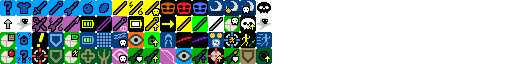
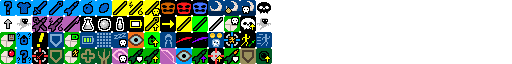
alchemical skilltree v0.1. NOT FINISHED YET! made it grant player itself upon gaining exp, but not usable yet

Changed region(s): [[0.1562, 0.25, 0.25, 0.5]]

diff --git a/core/src/main/java/com/shatteredpixel/shatteredpixeldungeon/actors/hero/Talent.java b/core/src/main/java/com/shatteredpixel/shatteredpixeldungeon/actors/hero/Talent.java
@@ -25,6 +25,7 @@ import com.shatteredpixel.shatteredpixeldungeon.Assets;
 import com.shatteredpixel.shatteredpixeldungeon.Dungeon;
 import com.shatteredpixel.shatteredpixeldungeon.actors.Actor;
 import com.shatteredpixel.shatteredpixeldungeon.actors.Char;
+import com.shatteredpixel.shatteredpixeldungeon.actors.buffs.AlchemicalAura;
 import com.shatteredpixel.shatteredpixeldungeon.actors.buffs.ArmorDamage;
 import com.shatteredpixel.shatteredpixeldungeon.actors.buffs.ArtifactRecharge;
 import com.shatteredpixel.shatteredpixeldungeon.actors.buffs.Berserk;
@@ -131,13 +132,13 @@ public enum Talent {
 	DREAMWEAVER(13, 1, AGILITY_MASTERY, ELEMENTAL_MASTERY), DREAMWEAVER_SANDMAN(14, 2, DREAMWEAVER), DREAMWEAVER_NIGHTMARE(15, 2, DREAMWEAVER),
 	DARKARTS(16 , 1, ARMOR_MASTERY, ARCANE_MASTERY), DARKARTS_POWER(32 , 2, DARKARTS), DARKARTS_NECROMANCER(33 , 2, DARKARTS),
 	SPELLSHOT(34, 1, ARCANE_MASTERY, AGILITY_MASTERY), SPELLSHOT_ENCHANT(35 , 2, SPELLSHOT), SPELLSHOT_HARPOON(36 , 2, SPELLSHOT),
+	ALCHEMY(37, 1, ARCANE_MASTERY, CRAFT_MASTERY), ALCHEMY_SPELLS(38 , 2, ALCHEMY), ALCHEMY_SUMMONS(39 , 2, ALCHEMY),
 	ARMOR_AGILITY(0, 1, ARMOR_MASTERY, AGILITY_MASTERY),
 	ARMOR_CRAFT(0, 1, ARMOR_MASTERY, CRAFT_MASTERY),
 	ARMOR_ELEMENTS(0, 1, ARMOR_MASTERY, ELEMENTAL_MASTERY),
 	WEAPON_AGILITY(0, 1, WEAPON_MASTERY, AGILITY_MASTERY),
 	WEAPON_CRAFT(0, 1, WEAPON_MASTERY, CRAFT_MASTERY),
 	WEAPON_ELEMENTS(0, 1, WEAPON_MASTERY, ELEMENTAL_MASTERY),
-	ARCANE_CRAFT(0, 1, ARCANE_MASTERY, CRAFT_MASTERY),
 	ARCANE_ELEMENTS(0, 1, ARCANE_MASTERY, ELEMENTAL_MASTERY),
 	AGILITY_CRAFT(0, 1, AGILITY_MASTERY, CRAFT_MASTERY),
 	CRAFT_ELEMENTS(0, 1, CRAFT_MASTERY, ELEMENTAL_MASTERY);
@@ -275,6 +276,9 @@ public enum Talent {
 						Dungeon.level.drop(harpoon, hero.pos).sprite.drop();
 					}
 				}
+				break;
+			case ALCHEMY:
+				Buff.affect(hero, AlchemicalAura.class);
 				break;
 		}
 
@@ -630,9 +634,9 @@ public enum Talent {
 				break;
 			case ADVENTURER:
 				//technically all of them are available, but only some of them are visible at the time
-				Collections.addAll(tierTalents, STAFFCRAFTING, BERSERKING, DARKARTS, SPELLSHOT, ARMOR_AGILITY,
-												ARMOR_CRAFT, ARMOR_ELEMENTS, WEAPON_AGILITY, WEAPON_CRAFT, WEAPON_ELEMENTS,
-												ARCANE_CRAFT, ARCANE_ELEMENTS, AGILITY_CRAFT, DREAMWEAVER, CRAFT_ELEMENTS);
+				Collections.addAll(tierTalents, STAFFCRAFTING, BERSERKING, DARKARTS, SPELLSHOT, ALCHEMY,
+												ARMOR_AGILITY,	ARMOR_CRAFT, ARMOR_ELEMENTS, WEAPON_AGILITY, WEAPON_CRAFT,
+												WEAPON_ELEMENTS, ARCANE_ELEMENTS, AGILITY_CRAFT, DREAMWEAVER, CRAFT_ELEMENTS);
 				break;
 		}
 		for (Talent talent : tierTalents){
@@ -655,7 +659,8 @@ public enum Talent {
 				Collections.addAll(tierTalents, POINT_BLANK, SEER_SHOT);
 			case ADVENTURER:
 				Collections.addAll(tierTalents, STAFFCRAFTING_CHANNELING, STAFFCRAFTING_EMPOWERED, BERSERKING_ANGER, BERSERKING_DETERMINATION,
-						DREAMWEAVER_SANDMAN, DREAMWEAVER_NIGHTMARE, DARKARTS_POWER, DARKARTS_NECROMANCER, SPELLSHOT_ENCHANT, SPELLSHOT_HARPOON);
+						DREAMWEAVER_SANDMAN, DREAMWEAVER_NIGHTMARE, DARKARTS_POWER, DARKARTS_NECROMANCER, SPELLSHOT_ENCHANT, SPELLSHOT_HARPOON,
+						ALCHEMY_SPELLS, ALCHEMY_SUMMONS);
 				break;
 		}
 		for (Talent talent : tierTalents){

diff --git a/core/src/main/java/com/shatteredpixel/shatteredpixeldungeon/actors/buffs/AlchemicalAura.java b/core/src/main/java/com/shatteredpixel/shatteredpixeldungeon/actors/buffs/AlchemicalAura.java
@@ -1,0 +1,114 @@
+/*
+ * Pixel Dungeon
+ * Copyright (C) 2012-2015 Oleg Dolya
+ *
+ * Shattered Pixel Dungeon
+ * Copyright (C) 2014-2021 Evan Debenham
+ *
+ * This program is free software: you can redistribute it and/or modify
+ * it under the terms of the GNU General Public License as published by
+ * the Free Software Foundation, either version 3 of the License, or
+ * (at your option) any later version.
+ *
+ * This program is distributed in the hope that it will be useful,
+ * but WITHOUT ANY WARRANTY; without even the implied warranty of
+ * MERCHANTABILITY or FITNESS FOR A PARTICULAR PURPOSE.  See the
+ * GNU General Public License for more details.
+ *
+ * You should have received a copy of the GNU General Public License
+ * along with this program.  If not, see <http://www.gnu.org/licenses/>
+ */
+
+package com.shatteredpixel.shatteredpixeldungeon.actors.buffs;
+
+import com.shatteredpixel.shatteredpixeldungeon.actors.hero.Hero;
+import com.shatteredpixel.shatteredpixeldungeon.items.artifacts.AlchemistsToolkit;
+import com.shatteredpixel.shatteredpixeldungeon.messages.Messages;
+import com.shatteredpixel.shatteredpixeldungeon.scenes.AlchemyScene;
+import com.shatteredpixel.shatteredpixeldungeon.ui.BuffIndicator;
+import com.shatteredpixel.shatteredpixeldungeon.utils.GLog;
+import com.watabou.noosa.Image;
+import com.watabou.utils.Bundle;
+
+public class AlchemicalAura extends Buff {
+	{
+		type = buffType.POSITIVE;
+		announced = false;
+	}
+
+	private int energy = 0;
+	private float partialEnergy = 0;
+
+	public void gainEnergy(float levelPortion) {
+		int energyCap = (target instanceof Hero ? ((Hero)target).lvl : 0);
+
+		float energyGain = levelPortion * 6;
+
+		if (energy < energyCap) {
+
+			partialEnergy += energyGain;
+
+			while (partialEnergy >= 1) {
+
+				energy++;
+				partialEnergy -= 1;
+
+				if (energy == energyCap){
+					partialEnergy = 0;
+				}
+
+			}
+		} else {
+			partialEnergy = 0;
+		}
+
+	}
+
+	public int getEnergy() {
+		return energy;
+	}
+
+	public void useEnergy(int energyUsed) {
+		energy = Math.max(0, energy - energyUsed);
+	}
+
+	public boolean checkUseEnergy(int energyUsed) {
+		if(energy - energyUsed >= 0) {
+			energy = energy - energyUsed;
+			return true;
+		} else
+			return false;
+	}
+
+	@Override
+	public int icon() {
+		return BuffIndicator.SACRIFICE;
+	}
+
+	@Override
+	public String toString() {
+		return Messages.get(this, "name");
+	}
+
+	@Override
+	public String desc() {
+		return Messages.get(this, "desc", energy);
+	}
+
+	private static final String ENERGY = "energy";
+	private static final String PARTIALENERGY = "partialenergy";
+
+	@Override
+	public void storeInBundle(Bundle bundle) {
+		super.storeInBundle(bundle);
+		bundle.put( ENERGY, energy );
+		bundle.put( PARTIALENERGY, partialEnergy );
+	}
+
+	@Override
+	public void restoreFromBundle(Bundle bundle) {
+		super.restoreFromBundle(bundle);
+		energy = bundle.getInt(ENERGY);
+		partialEnergy = bundle.getFloat(PARTIALENERGY);
+	}
+}

diff --git a/core/src/main/java/com/shatteredpixel/shatteredpixeldungeon/actors/hero/Hero.java b/core/src/main/java/com/shatteredpixel/shatteredpixeldungeon/actors/hero/Hero.java
@@ -32,6 +32,7 @@ import com.shatteredpixel.shatteredpixeldungeon.actors.Actor;
 import com.shatteredpixel.shatteredpixeldungeon.actors.Char;
 import com.shatteredpixel.shatteredpixeldungeon.actors.blobs.Alchemy;
 import com.shatteredpixel.shatteredpixeldungeon.actors.buffs.AdrenalineSurge;
+import com.shatteredpixel.shatteredpixeldungeon.actors.buffs.AlchemicalAura;
 import com.shatteredpixel.shatteredpixeldungeon.actors.buffs.Amok;
 import com.shatteredpixel.shatteredpixeldungeon.actors.buffs.Awareness;
 import com.shatteredpixel.shatteredpixeldungeon.actors.buffs.Barkskin;
@@ -1451,6 +1452,9 @@ public class Hero extends Char {
 		
 		AlchemistsToolkit.kitEnergy kit = buff(AlchemistsToolkit.kitEnergy.class);
 		if (kit != null) kit.gainCharge(percent);
+
+		AlchemicalAura aura = buff(AlchemicalAura.class);
+		if (aura != null) aura.gainEnergy(percent);
 		
 		Berserk berserk = buff(Berserk.class);
 		if (berserk != null) berserk.recover(percent);
